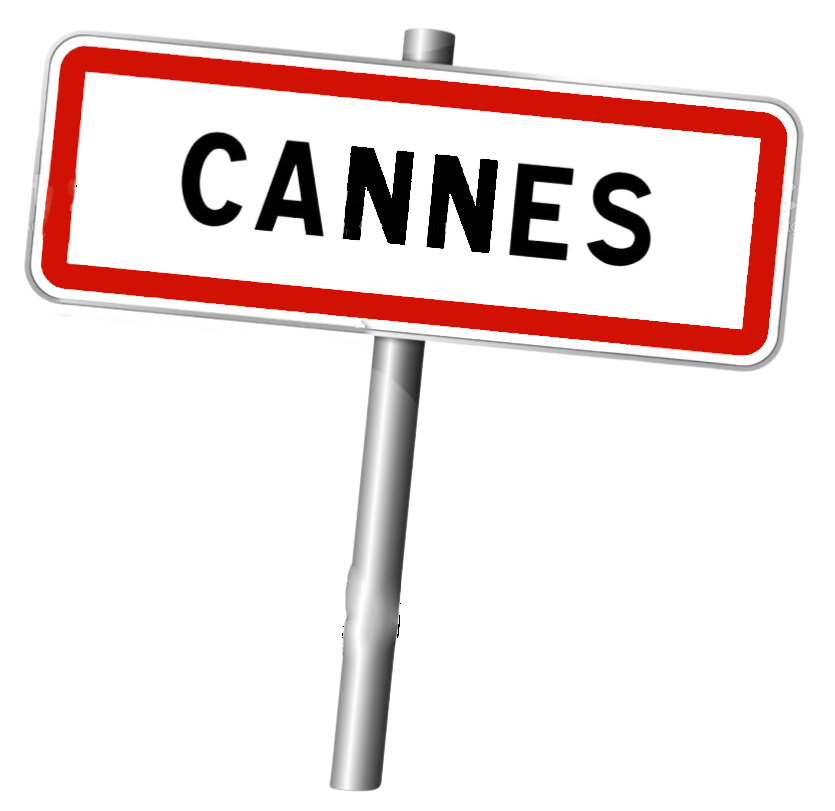
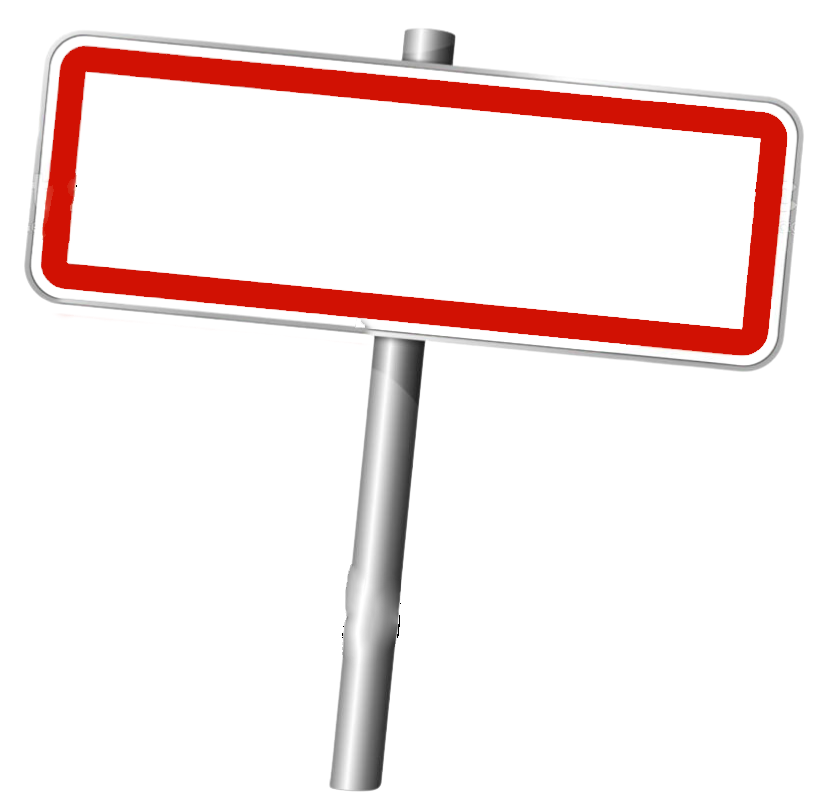
🚧 F02: PANEL>create component EmptyPanel and display it.

Changed region(s): [[0.218, 0.1541, 0.7784, 0.3391]]

diff --git a/city-weather/src/components/Slide/MessageEmpty.js b/city-weather/src/components/Slide/MessageEmpty.js
@@ -2,16 +2,16 @@ import React from "react";
 
 function MessageEmpty() {
   return (
-    <div className="text-[#393838] flex flex-col absolute top-48 left-8">
-      <span className="text-3xl text-red-600">OUPS !</span>
-      <span className="text-xl">
-        {" "}
-        Vous avez oublié de lancer une recherche{" "}
-      </span>
-      <div className="absolute top-52 rotate-6 left-24">
-        <span className="text-4xl">Inconnue</span>
+    <>
+      <div className="text-[#393838] flex flex-col absolute top-40  w-full">
+        <span className="text-center text-3xl text-red-600">OUPS !</span>
+        <span className=" text-center text-xl">Vous avez oublié de saisir</span>
+        <span className="text-center text-xl">le nom d'une ville</span>
       </div>
-    </div>
+      <div className="absolute bottom-[21.2rem] left-32 rotate-6">
+        <span className="text-center text-4xl">Inconnue</span>
+      </div>
+    </>
   );
 }
 

diff --git a/city-weather/src/api/EmptyDataPanel.js b/city-weather/src/api/EmptyDataPanel.js
@@ -1,0 +1,17 @@
+export const EMPTY_DATA_PANEL = Object.freeze({
+  long: "",
+  lat: "",
+  city: "",
+  date: {
+    current: "",
+    tomorrow: "",
+    afterTomorrow: "",
+  },
+  temp: {
+    day: 0,
+    tomorrow: 0,
+    afterTomorrow: 0,
+    minimal: 0,
+    maximal: 0,
+  },
+});

diff --git a/city-weather/src/index.css b/city-weather/src/index.css
@@ -1,4 +1,4 @@
-@import url("https://fonts.googleapis.com/css2?family=Reem+Kufi&family=Roboto+Mono&display=swap");
+@import url("https://fonts.googleapis.com/css2?family=Handlee&family=Reem+Kufi&family=Roboto+Mono&display=swap");
 
 @tailwind base;
 @tailwind components;
